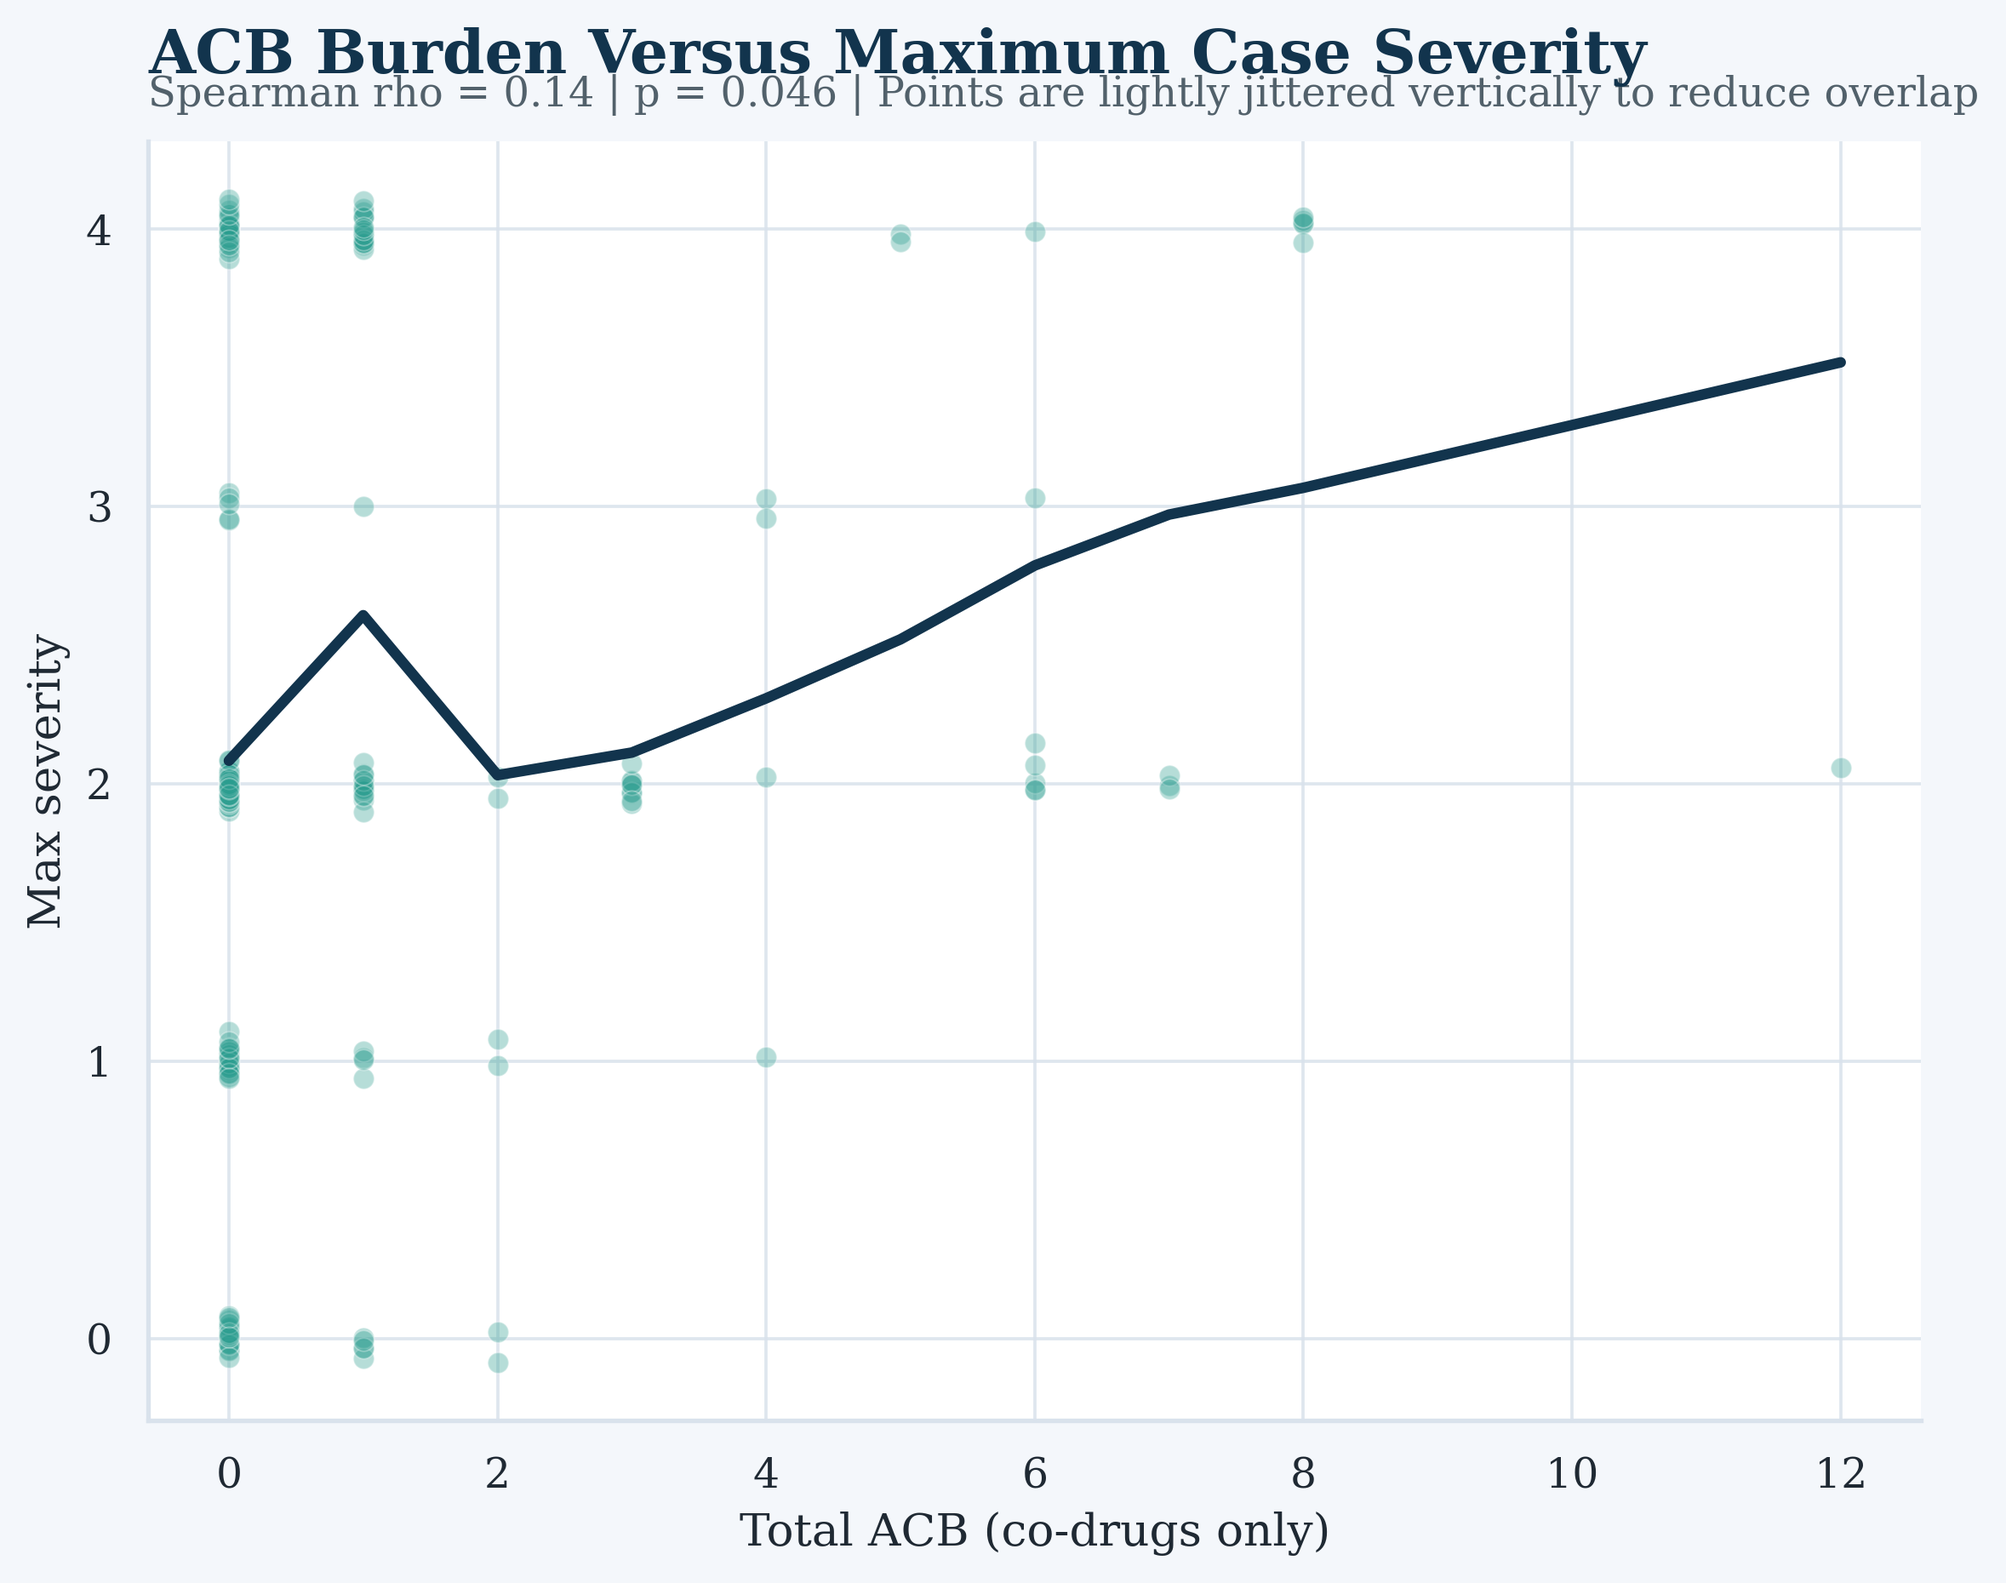
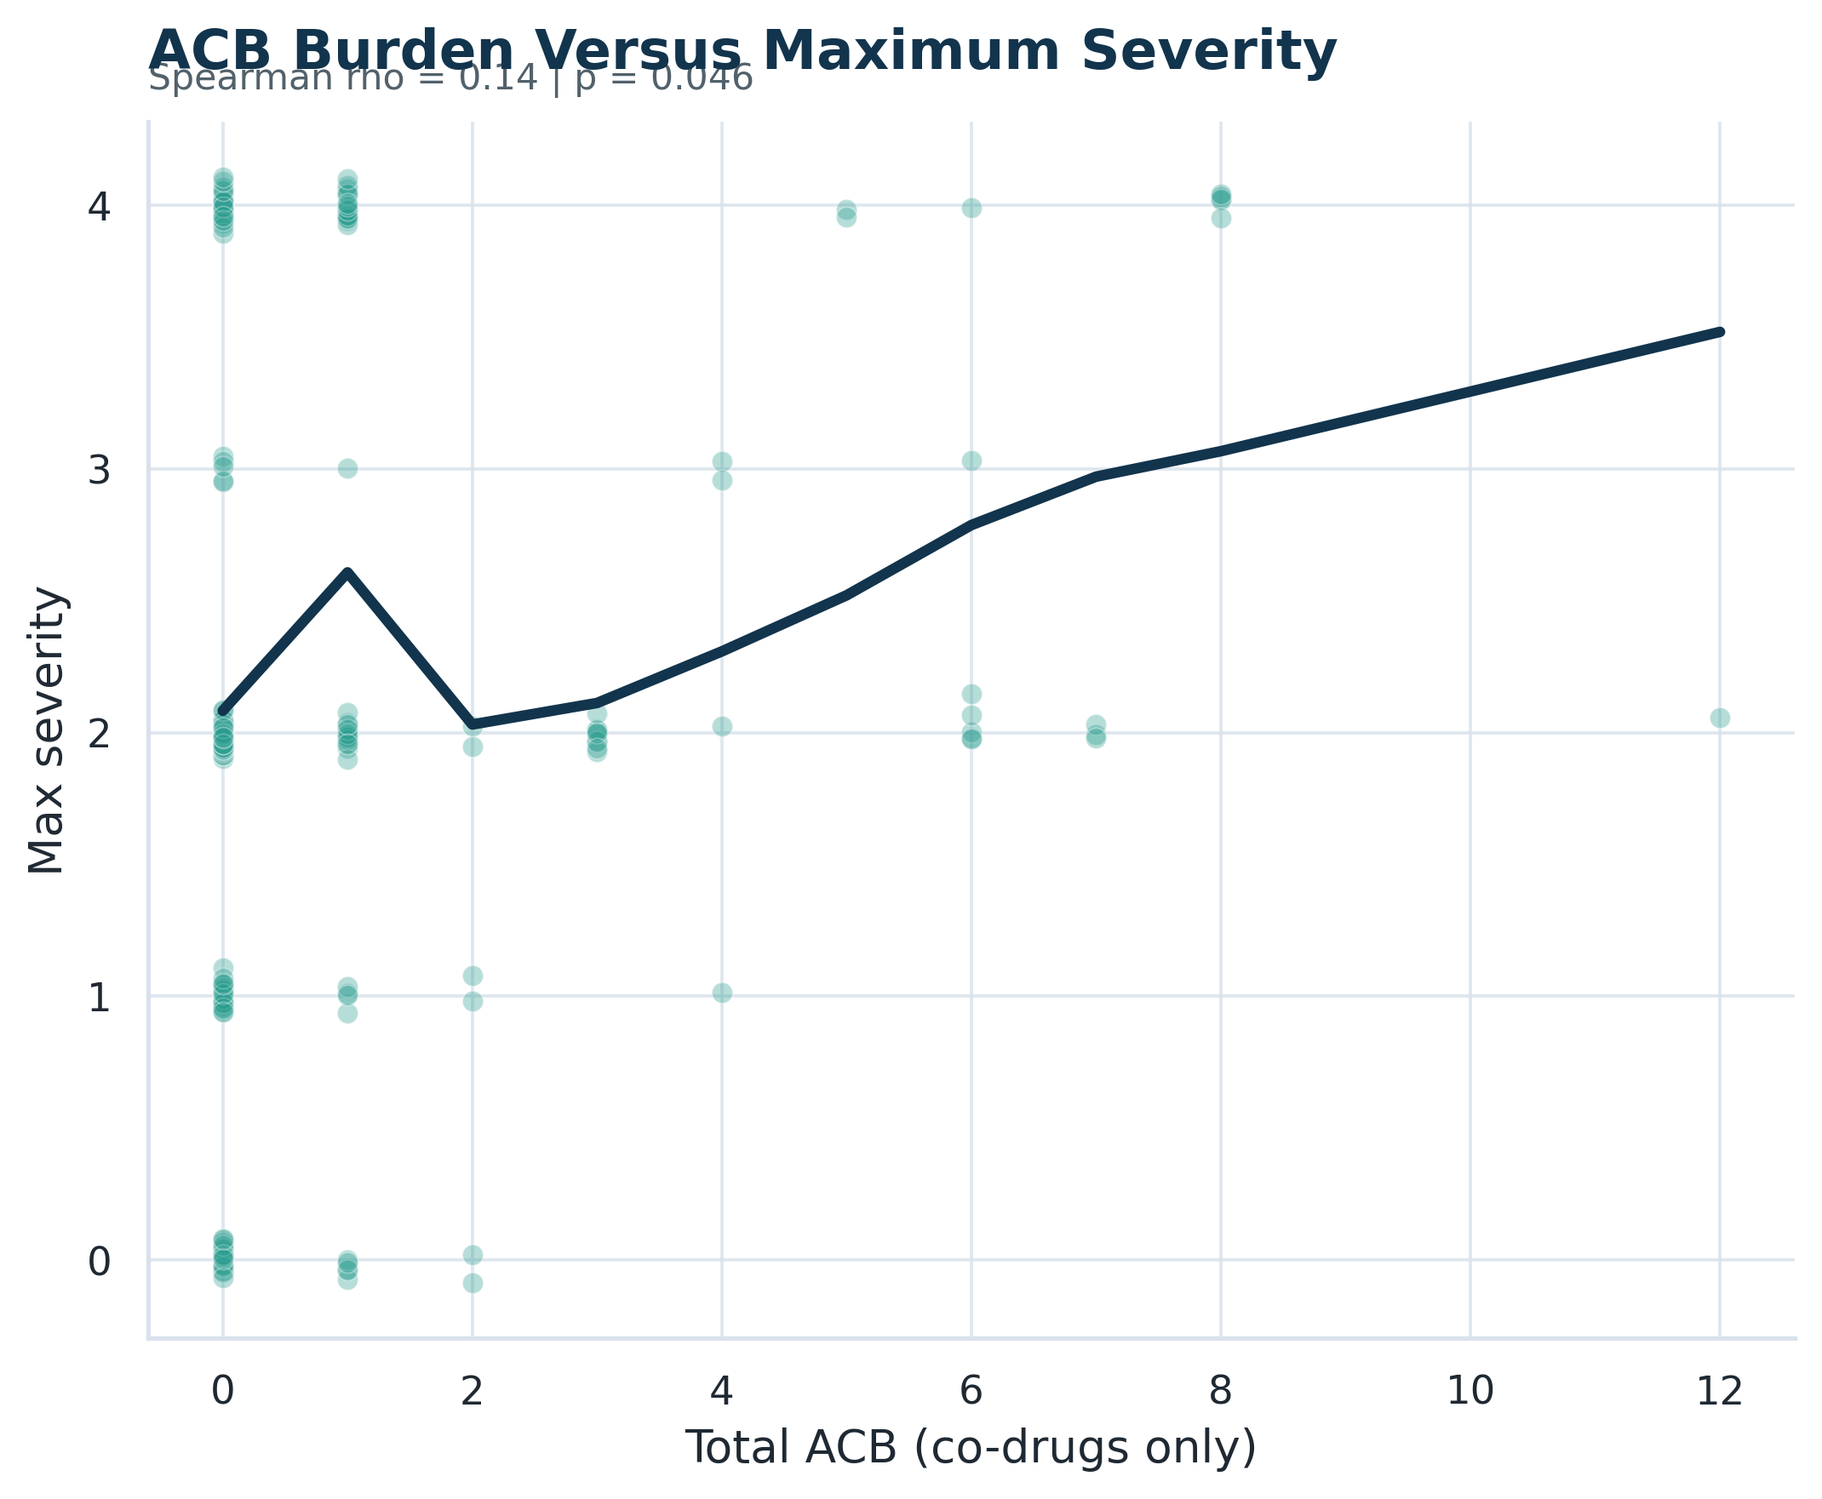
improve figure clarity

diff --git a/06_analysis/build_analysis_outputs.py b/06_analysis/build_analysis_outputs.py
@@ -1,5 +1,6 @@
 from pathlib import Path
 import json
+import textwrap
 
 import numpy as np
 import pandas as pd
@@ -7,7 +8,6 @@ import matplotlib.pyplot as plt
 import seaborn as sns
 from matplotlib import ticker
 from matplotlib.patches import FancyBboxPatch
-from matplotlib import patheffects
 from scipy import stats
 from scipy.stats import shapiro, mannwhitneyu, kruskal, spearmanr
 import scikit_posthocs as sp
@@ -97,8 +97,6 @@ TERM_LABELS = {
     "n_codrugs": "Number of co-drugs",
 }
 
-CARDIAC_LABELS = {0: "No cardiac toxicity", 1: "Cardiac toxicity"}
-CARDIAC_COLORS = {0: PALETTE["blue"], 1: PALETTE["rose"]}
 AGE_ORDER = ["13-15", "16-17", "18-19"]
 EXPORT_DPI = 320
 RNG = np.random.default_rng(42)
@@ -126,16 +124,9 @@ def format_p_value(p: float) -> str:
     return f"p = {p:.3f}"
 
 
-def add_shadow(artist) -> None:
-    artist.set_path_effects([
-        patheffects.withSimplePatchShadow(offset=(2, -2), shadow_rgbFace=PALETTE["shadow"], alpha=0.28),
-        patheffects.Normal(),
-    ])
-
-
 def style_axes(ax, grid_axis: str = "y") -> None:
     ax.set_facecolor(PALETTE["panel"])
-    ax.tick_params(colors=PALETTE["ink"], labelsize=11)
+    ax.tick_params(colors=PALETTE["ink"], labelsize=10.5)
     for side in ["top", "right"]:
         ax.spines[side].set_visible(False)
     for side in ["left", "bottom"]:
@@ -151,16 +142,17 @@ def style_axes(ax, grid_axis: str = "y") -> None:
 
 
 def add_title_block(ax, title: str, subtitle: str = "") -> None:
-    ax.set_title(title, loc="left", fontsize=16, fontweight="bold", color=PALETTE["navy"], pad=18)
+    ax.set_title(title, loc="left", fontsize=14.5, fontweight="semibold", color=PALETTE["navy"], pad=14)
     if subtitle:
+        wrapped = textwrap.fill(subtitle, width=72)
         ax.text(
             0,
             1.02,
-            subtitle,
+            wrapped,
             transform=ax.transAxes,
             ha="left",
             va="bottom",
-            fontsize=10.8,
+            fontsize=9.6,
             color=PALETTE["slate"],
         )
 
@@ -171,37 +163,9 @@ def concise_distribution_subtitle(series: pd.Series, stat: float, p: float) -> s
             f"n = {len(series):,}",
             f"mean = {series.mean():.2f}",
             f"median = {series.median():.2f}",
-            f"W = {stat:.3f}" if pd.notna(stat) else "W = NA",
+            f"Shapiro W = {stat:.3f}" if pd.notna(stat) else "Shapiro W = NA",
             format_p_value(p),
         ]
-    )
-
-
-def add_badge(
-    ax,
-    text: str,
-    x: float = 0.98,
-    y: float = 0.98,
-    ha: str = "right",
-    va: str = "top",
-    facecolor: str = "#ffffff",
-) -> None:
-    ax.text(
-        x,
-        y,
-        text,
-        transform=ax.transAxes,
-        ha=ha,
-        va=va,
-        fontsize=9.8,
-        color=PALETTE["ink"],
-        linespacing=1.4,
-        bbox={
-            "boxstyle": "round,pad=0.45,rounding_size=0.12",
-            "facecolor": facecolor,
-            "edgecolor": PALETTE["grid"],
-            "linewidth": 1.0,
-        },
     )
 
 
@@ -211,10 +175,10 @@ def save_figure(fig: plt.Figure, path: Path) -> None:
 
 
 def configure_theme() -> None:
-    sns.set_theme(style="whitegrid", font="DejaVu Serif")
+    sns.set_theme(style="whitegrid", font="DejaVu Sans")
     plt.rcParams.update(
         {
-            "figure.facecolor": PALETTE["bg"],
+            "figure.facecolor": "#ffffff",
             "axes.facecolor": PALETTE["panel"],
             "axes.edgecolor": PALETTE["grid"],
             "axes.labelcolor": PALETTE["ink"],
@@ -223,11 +187,11 @@ def configure_theme() -> None:
             "xtick.color": PALETTE["ink"],
             "ytick.color": PALETTE["ink"],
             "grid.color": PALETTE["grid"],
-            "font.size": 11,
-            "axes.titlesize": 16,
+            "font.size": 10.5,
+            "axes.titlesize": 14.5,
             "axes.labelsize": 12,
             "legend.frameon": False,
-            "legend.fontsize": 10,
+            "legend.fontsize": 9.5,
         }
     )
 
@@ -312,7 +276,7 @@ def normality_checks(df: pd.DataFrame) -> pd.DataFrame:
 
         color = SERIES_COLORS[idx % len(SERIES_COLORS)]
 
-        fig, ax = plt.subplots(figsize=(9, 5.4), facecolor=PALETTE["bg"])
+        fig, ax = plt.subplots(figsize=(8.4, 5.0), facecolor="#ffffff")
         sns.histplot(
             s,
             bins="fd" if s.nunique() > 1 else 1,
@@ -331,10 +295,10 @@ def normality_checks(df: pd.DataFrame) -> pd.DataFrame:
         style_axes(ax, grid_axis="y")
         ax.set_xlabel(pretty_label(col))
         ax.set_ylabel("Case count")
-        ax.legend(loc="upper right")
+        ax.legend(loc="upper right", handlelength=1.6)
         save_figure(fig, FIG_DIR / HISTOGRAM_NAMES[col])
 
-        fig, ax = plt.subplots(figsize=(6.6, 6.2), facecolor=PALETTE["bg"])
+        fig, ax = plt.subplots(figsize=(6.2, 5.8), facecolor="#ffffff")
         (theoretical, ordered), (slope, intercept, r_value) = stats.probplot(s, dist="norm")
         ax.scatter(theoretical, ordered, s=38, color=color, alpha=0.85, edgecolors="white", linewidths=0.55)
         ax.plot(theoretical, slope * np.asarray(theoretical) + intercept, color=PALETTE["navy"], linewidth=2.2)
@@ -364,7 +328,7 @@ def analysis_a_b_c(df: pd.DataFrame) -> pd.DataFrame:
     dunn_df = sp.posthoc_dunn(df, val_col="total_acb_with_dph", group_col="age_group", p_adjust="bonferroni")
     dunn_df.to_csv(TAB_DIR / FILE_NAMES["table_posthoc"])
 
-    fig, ax = plt.subplots(figsize=(8.8, 6.4), facecolor=PALETTE["bg"])
+    fig, ax = plt.subplots(figsize=(8.0, 5.8), facecolor="#ffffff")
     order = AGE_ORDER
     plot_df = df[df["age_group"].isin(order)].copy()
     violin = sns.violinplot(
@@ -382,7 +346,7 @@ def analysis_a_b_c(df: pd.DataFrame) -> pd.DataFrame:
         ax=ax,
     )
     for collection in violin.collections:
-        collection.set_alpha(0.7)
+        collection.set_alpha(0.5)
     sns.boxplot(
         data=plot_df,
         x="age_group",
@@ -399,12 +363,12 @@ def analysis_a_b_c(df: pd.DataFrame) -> pd.DataFrame:
     ymax = np.nanmax(plot_df["total_acb_with_dph"]) if plot_df["total_acb_with_dph"].notna().any() else 1
     ymin = np.nanmin(plot_df["total_acb_with_dph"]) if plot_df["total_acb_with_dph"].notna().any() else 0
     lower = min(0, ymin - max(0.25, 0.05 * max(ymax, 1)))
-    ax.set_ylim(lower, ymax * 1.24 if ymax > 0 else 1.5)
+    ax.set_ylim(lower, ymax * 1.18 if ymax > 0 else 1.5)
 
     summary = plot_df.groupby("age_group")["total_acb_with_dph"].agg(["median", "count"]).reindex(order)
     for idx, row in enumerate(summary.itertuples()):
         ax.scatter(idx, row.median, s=65, color=PALETTE["red"], edgecolors="white", linewidths=0.8, zorder=4)
-        ax.text(idx, lower + 0.02 * (ax.get_ylim()[1] - lower), f"n = {int(row.count)}", ha="center", va="bottom", fontsize=10, color=PALETTE["slate"])
+        ax.text(idx, lower + 0.02 * (ax.get_ylim()[1] - lower), f"n={int(row.count)}", ha="center", va="bottom", fontsize=9.5, color=PALETTE["slate"])
 
     level_map = {lvl: idx for idx, lvl in enumerate(order)}
     pair_y = ymax * 1.06 if ymax > 0 else 1
@@ -414,10 +378,10 @@ def analysis_a_b_c(df: pd.DataFrame) -> pd.DataFrame:
             if pd.notna(pval) and pval < 0.05:
                 xa, xb = level_map[a], level_map[b]
                 ax.plot([xa, xa, xb, xb], [pair_y, pair_y * 1.015, pair_y * 1.015, pair_y], color=PALETTE["slate"], lw=1.3)
-                ax.text((xa + xb) / 2, pair_y * 1.018, p_stars(float(pval)), ha="center", va="bottom", color=PALETTE["red"], fontsize=11)
+                ax.text((xa + xb) / 2, pair_y * 1.016, p_stars(float(pval)), ha="center", va="bottom", color=PALETTE["red"], fontsize=10.5)
                 pair_y *= 1.06
 
-    add_title_block(ax, "Total ACB Burden Across Age Groups", f"Kruskal-Wallis H = {k_stat:.2f} | {format_p_value(p_kw)} | Violin shows density; box shows median and IQR")
+    add_title_block(ax, "Total ACB Burden by Age Group", f"Kruskal-Wallis H = {k_stat:.2f} | {format_p_value(p_kw)}")
     style_axes(ax, grid_axis="y")
     ax.set_xlabel("Age group")
     ax.set_ylabel("Total ACB (with DPH)")
@@ -426,7 +390,7 @@ def analysis_a_b_c(df: pd.DataFrame) -> pd.DataFrame:
     rho, p_sp = spearmanr(df["total_acb_codrugs_only"], df["max_severity"], nan_policy="omit")
     rows.append({"analysis": "C_spearman_acb_vs_severity", "statistic": rho, "p_value": p_sp})
 
-    fig, ax = plt.subplots(figsize=(8.4, 6.1), facecolor=PALETTE["bg"])
+    fig, ax = plt.subplots(figsize=(7.8, 5.8), facecolor="#ffffff")
     severity_df = df[["total_acb_codrugs_only", "max_severity", "cardiac_any"]].dropna().copy()
     severity_df["severity_jittered"] = severity_df["max_severity"] + RNG.normal(0, 0.05, size=len(severity_df))
     ax.scatter(
@@ -447,7 +411,7 @@ def analysis_a_b_c(df: pd.DataFrame) -> pd.DataFrame:
         line_kws={"color": PALETTE["navy"], "lw": 2.8},
         ax=ax,
     )
-    add_title_block(ax, "ACB Burden Versus Maximum Case Severity", f"Spearman rho = {rho:.2f} | {format_p_value(p_sp)} | Points are lightly jittered vertically to reduce overlap")
+    add_title_block(ax, "ACB Burden Versus Maximum Severity", f"Spearman rho = {rho:.2f} | {format_p_value(p_sp)}")
     style_axes(ax, grid_axis="both")
     ax.set_xlabel("Total ACB (co-drugs only)")
     ax.set_ylabel("Max severity")
@@ -527,7 +491,7 @@ def logistic_and_forest(df: pd.DataFrame) -> pd.DataFrame:
     forest_df["significant"] = forest_df["p_value"].fillna(1) < 0.05
     forest_df = forest_df.sort_values("OR", ascending=False).reset_index(drop=True)
 
-    fig, ax = plt.subplots(figsize=(10.2, max(4.4, 0.72 * len(forest_df))), facecolor=PALETTE["bg"])
+    fig, ax = plt.subplots(figsize=(8.8, max(4.0, 0.64 * len(forest_df))), facecolor="#ffffff")
     y = np.arange(len(forest_df))
     has_ci = forest_df["CI_low"].notna().all() and forest_df["CI_high"].notna().all()
     value_text = []
@@ -555,18 +519,15 @@ def logistic_and_forest(df: pd.DataFrame) -> pd.DataFrame:
         "Adjusted Odds Ratios for Cardiac Toxicity",
         f"Logistic model adjusted for age and co-drug count; n = {fit_full['n']}, AUC = {fit_full['auc']:.3f}",
     )
-    text_x = ax.get_xlim()[1] / 1.02
-    for yi, value in enumerate(value_text):
-        ax.text(text_x, yi, value, ha="right", va="center", fontsize=10, color=PALETTE["ink"])
-    fig.subplots_adjust(left=0.29, right=0.97, top=0.88, bottom=0.13)
+    fig.subplots_adjust(left=0.35, right=0.96, top=0.84, bottom=0.14)
     save_figure(fig, FIG_DIR / FILE_NAMES["figure_forest"])
 
     roc_df = pred_df.dropna(subset=["pred_prob"]).copy()
     fpr, tpr, _ = roc_curve(roc_df["cardiac_any"], roc_df["pred_prob"])
     auc = fit_full["auc"]
     youden_idx = int(np.argmax(tpr - fpr))
-    fig, ax = plt.subplots(figsize=(7.1, 6.4), facecolor=PALETTE["bg"])
-    ax.fill_between(fpr, tpr, color=PALETTE["mint"], alpha=0.35)
+    fig, ax = plt.subplots(figsize=(6.6, 6.0), facecolor="#ffffff")
+    ax.fill_between(fpr, tpr, color=PALETTE["mint"], alpha=0.22)
     ax.plot(fpr, tpr, color=PALETTE["teal"], lw=3.0, label=f"Model ROC (AUC = {auc:.3f})")
     ax.scatter(fpr[youden_idx], tpr[youden_idx], color=PALETTE["orange"], s=85, edgecolors="white", linewidths=0.8, zorder=3)
     ax.plot([0, 1], [0, 1], color=PALETTE["slate"], ls="--", lw=1.2, label="Chance")
@@ -575,7 +536,7 @@ def logistic_and_forest(df: pd.DataFrame) -> pd.DataFrame:
     style_axes(ax, grid_axis="both")
     ax.set_xlabel("False Positive Rate")
     ax.set_ylabel("True Positive Rate")
-    add_title_block(ax, "ROC Curve for the Cardiac Risk Model", f"AUC = {auc:.3f} | Best sensitivity = {tpr[youden_idx]:.2f} | Best specificity = {1 - fpr[youden_idx]:.2f}")
+    add_title_block(ax, "ROC Curve for Cardiac Risk Model", f"AUC = {auc:.3f} | Sensitivity = {tpr[youden_idx]:.2f} | Specificity = {1 - fpr[youden_idx]:.2f}")
     ax.legend(loc="lower right")
     save_figure(fig, FIG_DIR / FILE_NAMES["figure_roc"])
 
@@ -584,7 +545,7 @@ def logistic_and_forest(df: pd.DataFrame) -> pd.DataFrame:
 
 
 def plot_flowchart(counts: dict[str, int]) -> None:
-    fig, ax = plt.subplots(figsize=(9, 7), facecolor=PALETTE["bg"])
+    fig, ax = plt.subplots(figsize=(8.3, 6.2), facecolor="#ffffff")
     ax.axis("off")
 
     stages = [
@@ -601,18 +562,17 @@ def plot_flowchart(counts: dict[str, int]) -> None:
         rect = FancyBboxPatch(
             (0.10, y),
             0.80,
-            0.13,
-            boxstyle="round,pad=0.025,rounding_size=0.03",
+            0.11,
+            boxstyle="round,pad=0.015,rounding_size=0.015",
             edgecolor=PALETTE["navy"],
-            facecolor=fill,
-            linewidth=1.6,
+            facecolor="#ffffff",
+            linewidth=1.2,
         )
-        add_shadow(rect)
         ax.add_patch(rect)
-        ax.text(0.14, y + 0.088, f"Step {stage_index}", fontsize=9.5, color=PALETTE["slate"], fontweight="bold")
-        ax.text(0.14, y + 0.054, label, fontsize=13, color=PALETTE["navy"], fontweight="bold")
-        ax.text(0.14, y + 0.024, f"n = {value:,}", fontsize=11, color=PALETTE["ink"])
-        ax.text(0.86, y + 0.054, retention, ha="right", fontsize=10.2, color=PALETTE["slate"])
+        ax.text(0.14, y + 0.072, f"Step {stage_index}", fontsize=9.0, color=PALETTE["slate"], fontweight="semibold")
+        ax.text(0.14, y + 0.043, label, fontsize=11.6, color=PALETTE["navy"], fontweight="semibold")
+        ax.text(0.14, y + 0.016, f"n = {value:,}", fontsize=10.2, color=PALETTE["ink"])
+        ax.text(0.86, y + 0.043, retention, ha="right", fontsize=9.6, color=PALETTE["slate"])
         previous = value
 
     for upper, lower in [(0.80, 0.73), (0.60, 0.53), (0.40, 0.33)]:
@@ -620,12 +580,12 @@ def plot_flowchart(counts: dict[str, int]) -> None:
             "",
             xy=(0.5, lower),
             xytext=(0.5, upper),
-            arrowprops={"arrowstyle": "-|>", "lw": 1.8, "color": PALETTE["navy"]},
+            arrowprops={"arrowstyle": "-|>", "lw": 1.4, "color": PALETTE["navy"]},
         )
 
-    ax.text(0.10, 0.96, "Cohort Flow Summary", fontsize=17, color=PALETTE["navy"], fontweight="bold")
-    ax.text(0.10, 0.925, "Progression from all adolescent FAERS records to the analytic diphenhydramine cohort", fontsize=10.8, color=PALETTE["slate"])
-    ax.text(0.10, 0.08, f"Final unique PRIMARYID count: {counts['Final_unique_PRIMARYID']:,}", fontsize=10.5, color=PALETTE["ink"])
+    ax.text(0.10, 0.95, "Cohort Flow Summary", fontsize=14.5, color=PALETTE["navy"], fontweight="semibold")
+    ax.text(0.10, 0.92, "From adolescent FAERS records to the final analytic cohort", fontsize=9.6, color=PALETTE["slate"])
+    ax.text(0.10, 0.08, f"Final unique PRIMARYID: {counts['Final_unique_PRIMARYID']:,}", fontsize=9.8, color=PALETTE["ink"])
     save_figure(fig, FIG_DIR / FILE_NAMES["figure_flow"])
 
 
@@ -657,8 +617,8 @@ def save_summary(counts: dict[str, int], norm: pd.DataFrame, tests: pd.DataFrame
 
 
 def make_dashboard() -> None:
-    fig = plt.figure(figsize=(14, 10), facecolor=PALETTE["bg"], constrained_layout=True)
-    gs = fig.add_gridspec(2, 2, wspace=0.25, hspace=0.3)
+    fig = plt.figure(figsize=(13.2, 9.2), facecolor="#ffffff")
+    gs = fig.add_gridspec(2, 2, left=0.05, right=0.97, top=0.90, bottom=0.06, wspace=0.10, hspace=0.16)
 
     files = [
         FIG_DIR / FILE_NAMES["figure_flow"],
@@ -673,12 +633,10 @@ def make_dashboard() -> None:
         img = plt.imread(img_path)
         ax.imshow(img)
         ax.axis("off")
-        panel = FancyBboxPatch((0.01, 0.01), 0.98, 0.98, transform=ax.transAxes, boxstyle="round,pad=0.012,rounding_size=0.03", facecolor="none", edgecolor=PALETTE["grid"], linewidth=1.2)
-        ax.add_patch(panel)
-        ax.set_title(title, fontsize=12.5, fontweight="bold", color=PALETTE["navy"], pad=10)
+        ax.set_title(title, fontsize=11.5, fontweight="semibold", color=PALETTE["navy"], pad=6)
 
-    fig.suptitle("Adolescent Diphenhydramine FAERS Results Overview", fontsize=17, fontweight="bold", color=PALETTE["navy"])
-    fig.text(0.5, 0.965, "Publication-style summary panel for the main cohort, association, and prediction figures", ha="center", fontsize=10.8, color=PALETTE["slate"])
+    fig.suptitle("Adolescent Diphenhydramine FAERS Results Overview", fontsize=15, fontweight="semibold", color=PALETTE["navy"], y=0.96)
+    fig.text(0.5, 0.93, "Key descriptive, association, and prediction figures", ha="center", fontsize=9.8, color=PALETTE["slate"])
     save_figure(fig, FIG_DIR / FILE_NAMES["figure_dashboard"])
 
 
